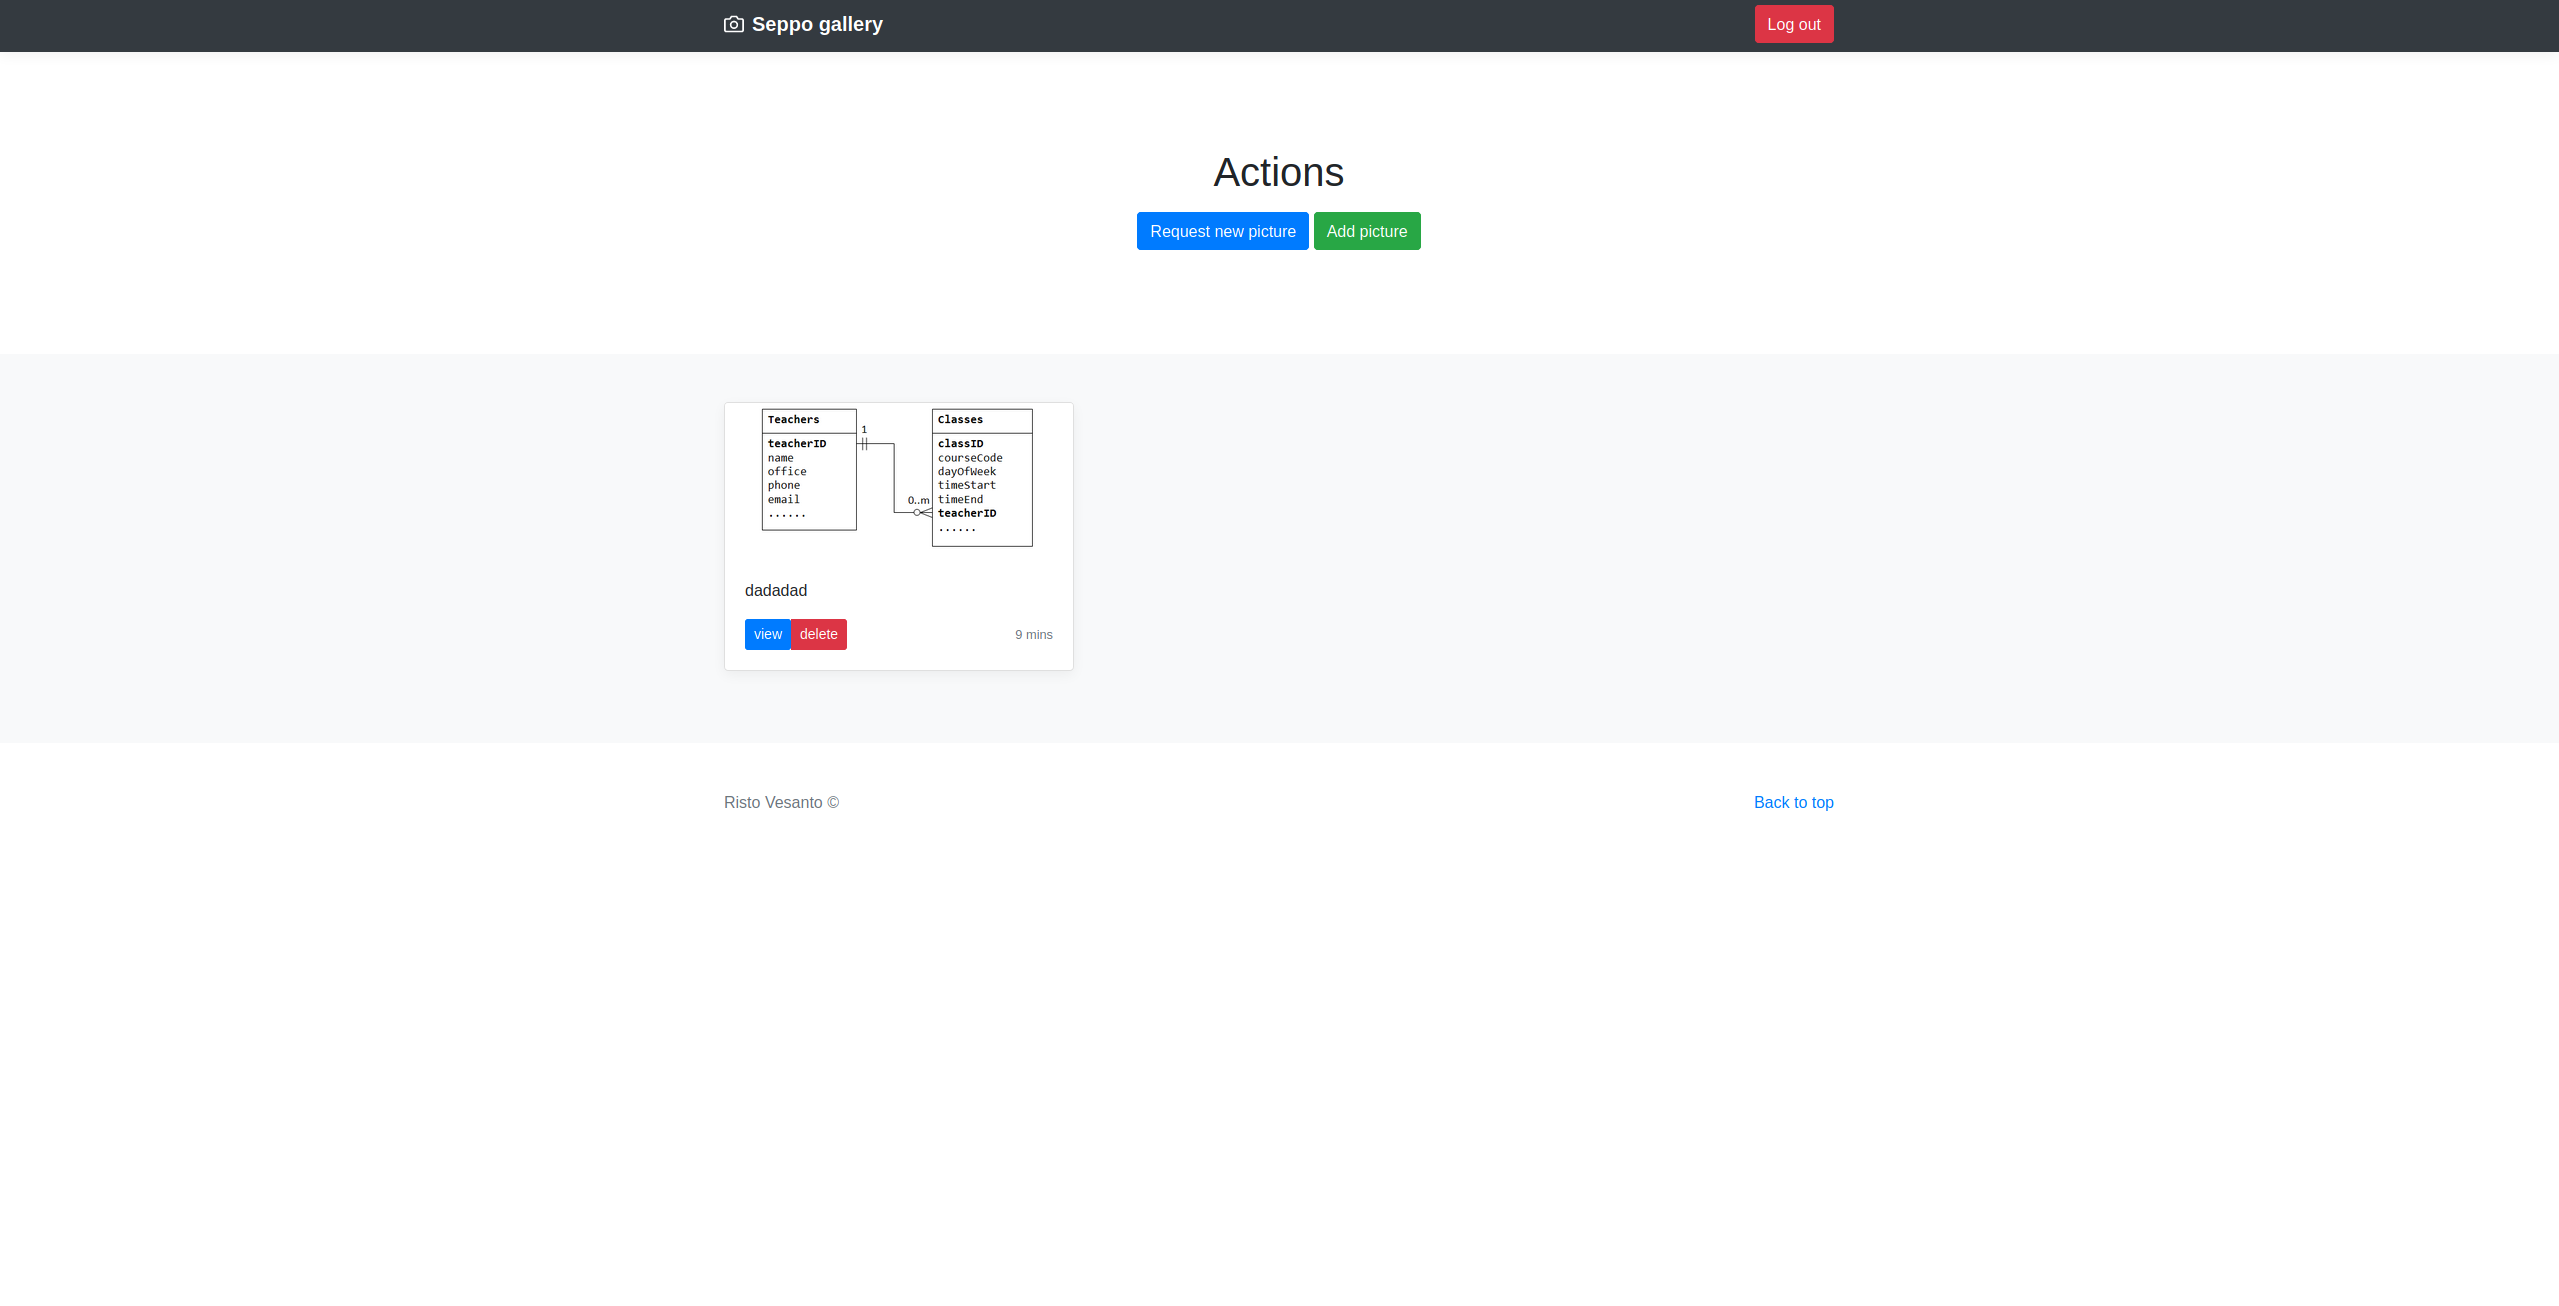
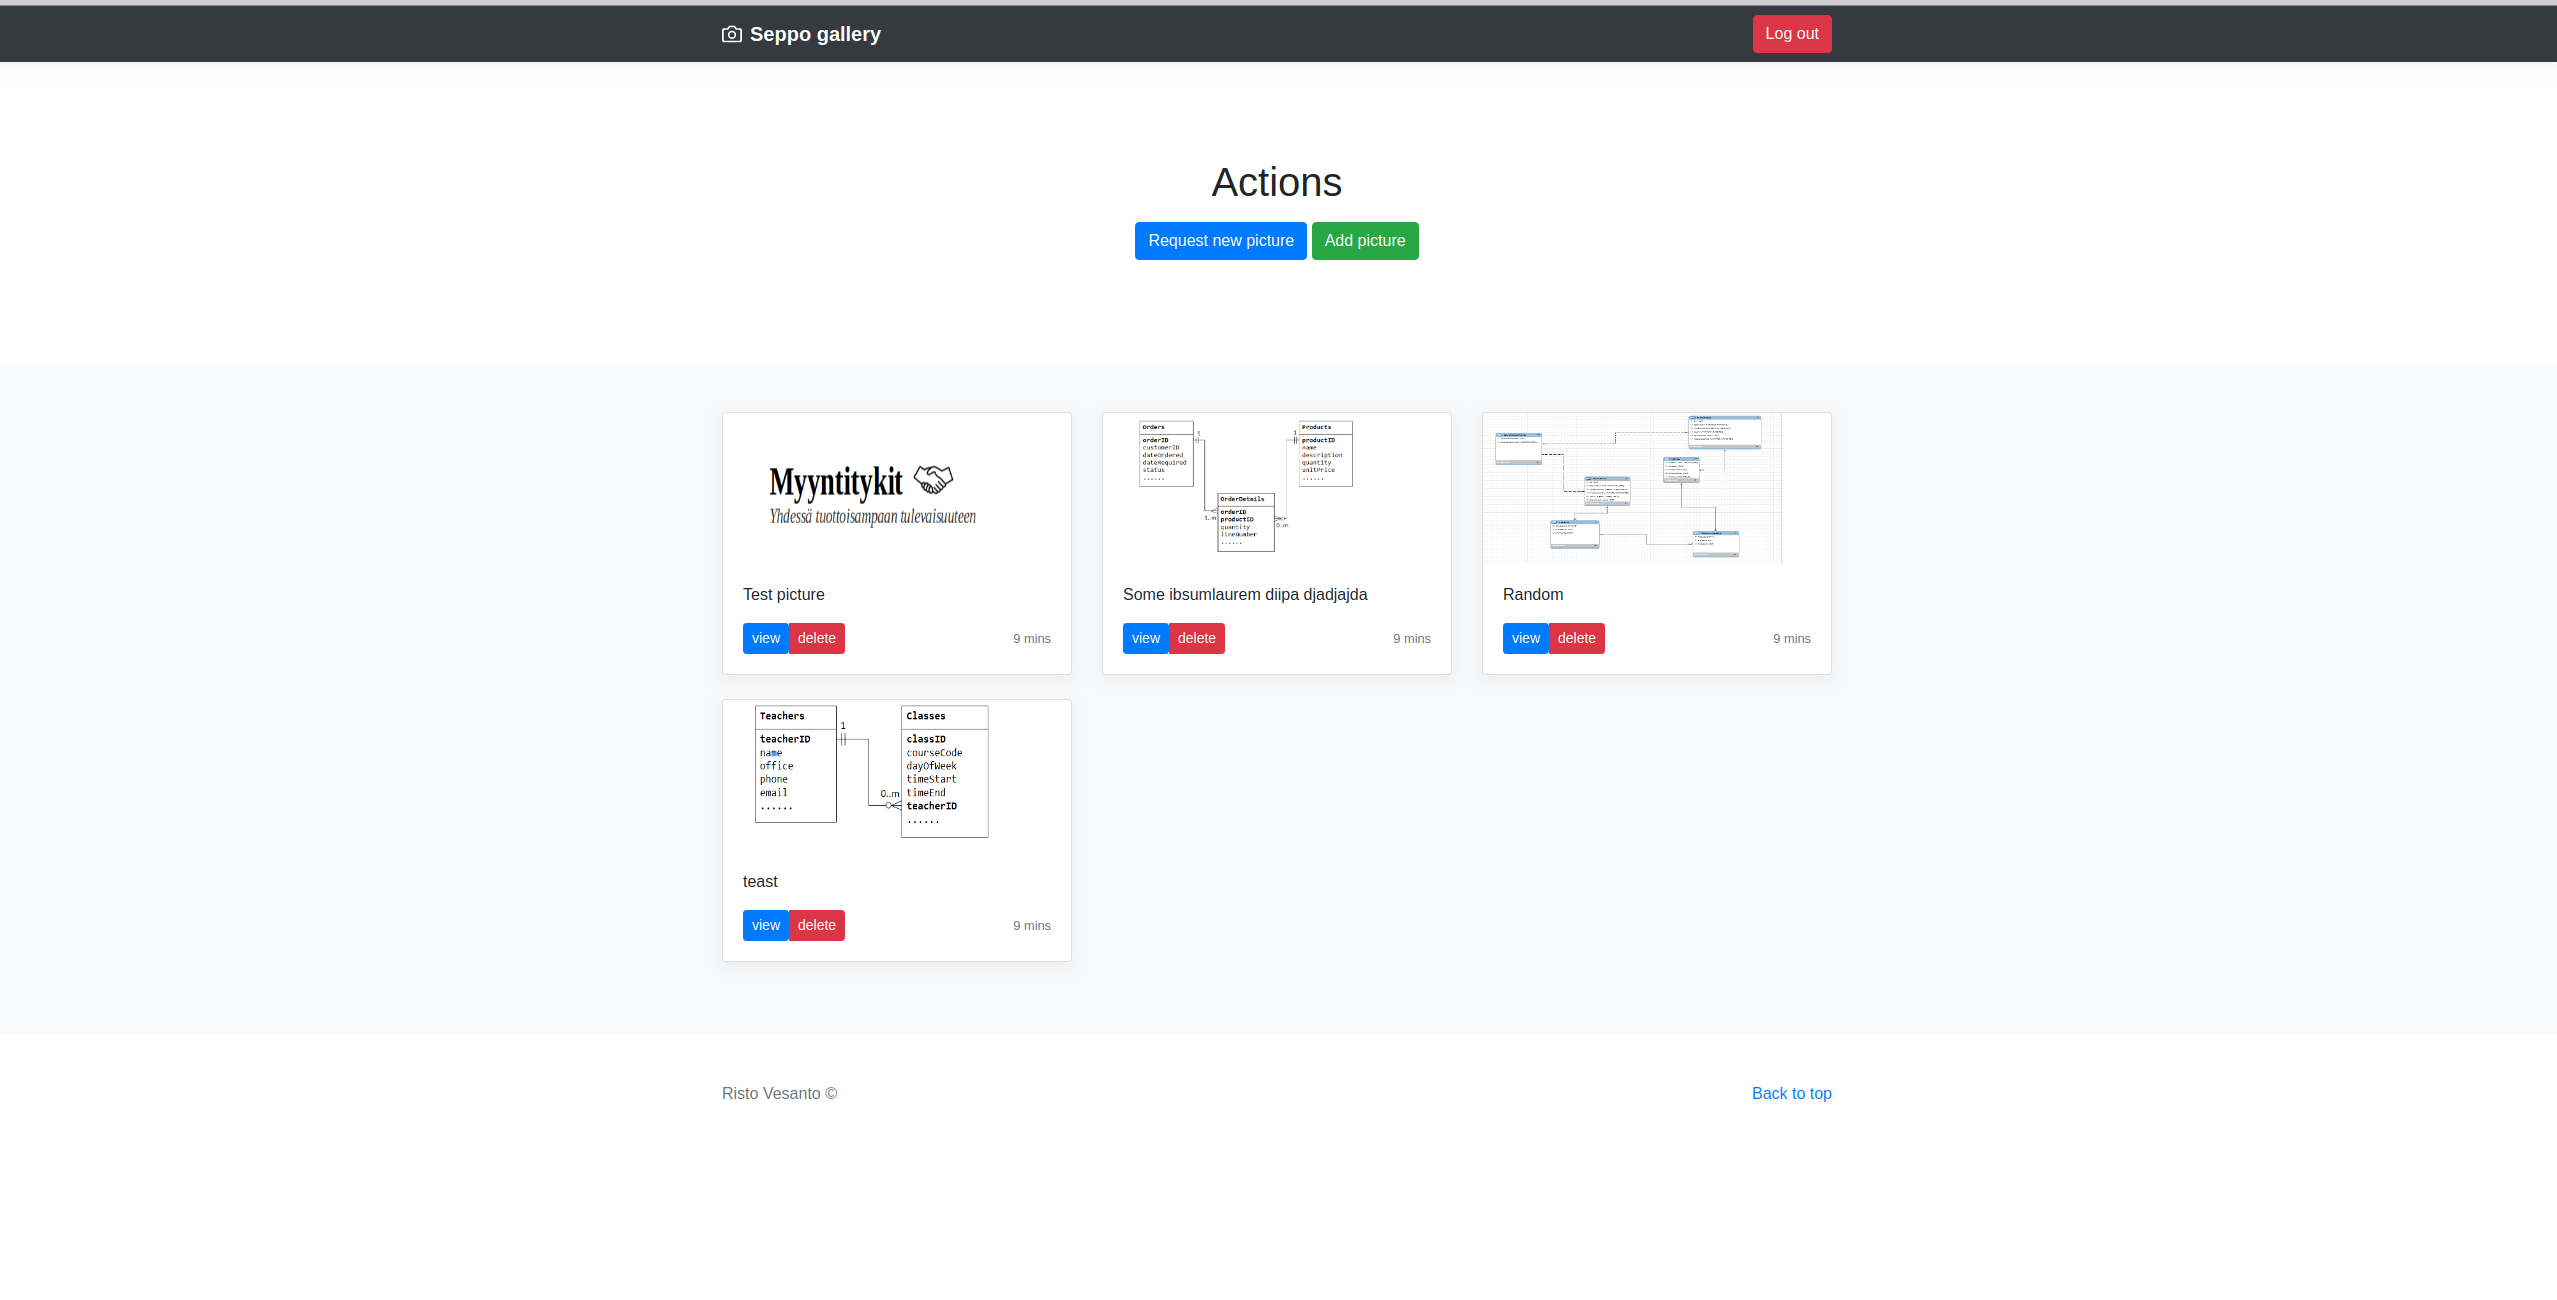
minor

diff --git a/main/pictureapp/templates/pictures.html b/main/pictureapp/templates/pictures.html
@@ -1,10 +1,9 @@
 {% extends 'index.html' %}
 {% block body %}
 {% for pic in pics %}
-          <div class="row">
             <div class="col-md-4">
               <div class="card mb-4 box-shadow">
-                <img class="card-img-top" src="{{ pic.pic }}" alt="Card image cap">
+                <img class="card-img-top" src="{{ pic.pic }}" alt="Card image cap"  style="width:300px; height:150px;">
                 <div class="card-body">
                   <p class="card-text">{{ pic.description }}</p>
                   <div class="d-flex justify-content-between align-items-center">
@@ -21,6 +20,5 @@
                 </div>
               </div>
             </div>
-          </div>
 		{% endfor %}
 {% endblock %}

diff --git a/main/pictureapp/templates/index.html b/main/pictureapp/templates/index.html
@@ -50,7 +50,9 @@
 
       <div class="album py-5 bg-light">
         <div class="container">
+          <div class="row">
 			{% block body %}{% endblock %}
+            </div>
         </div>
       </div>
 
